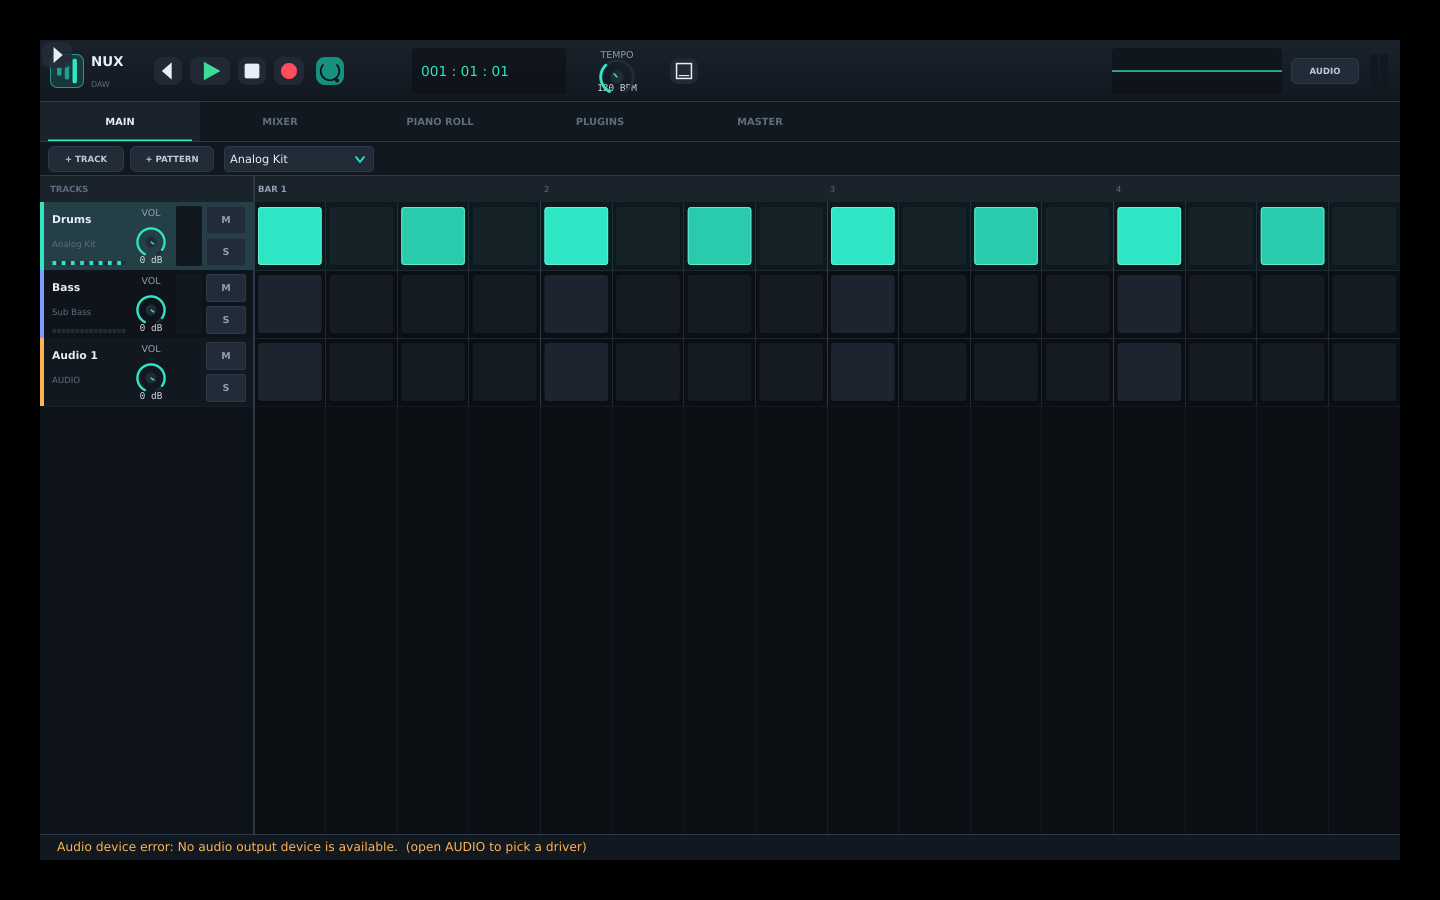
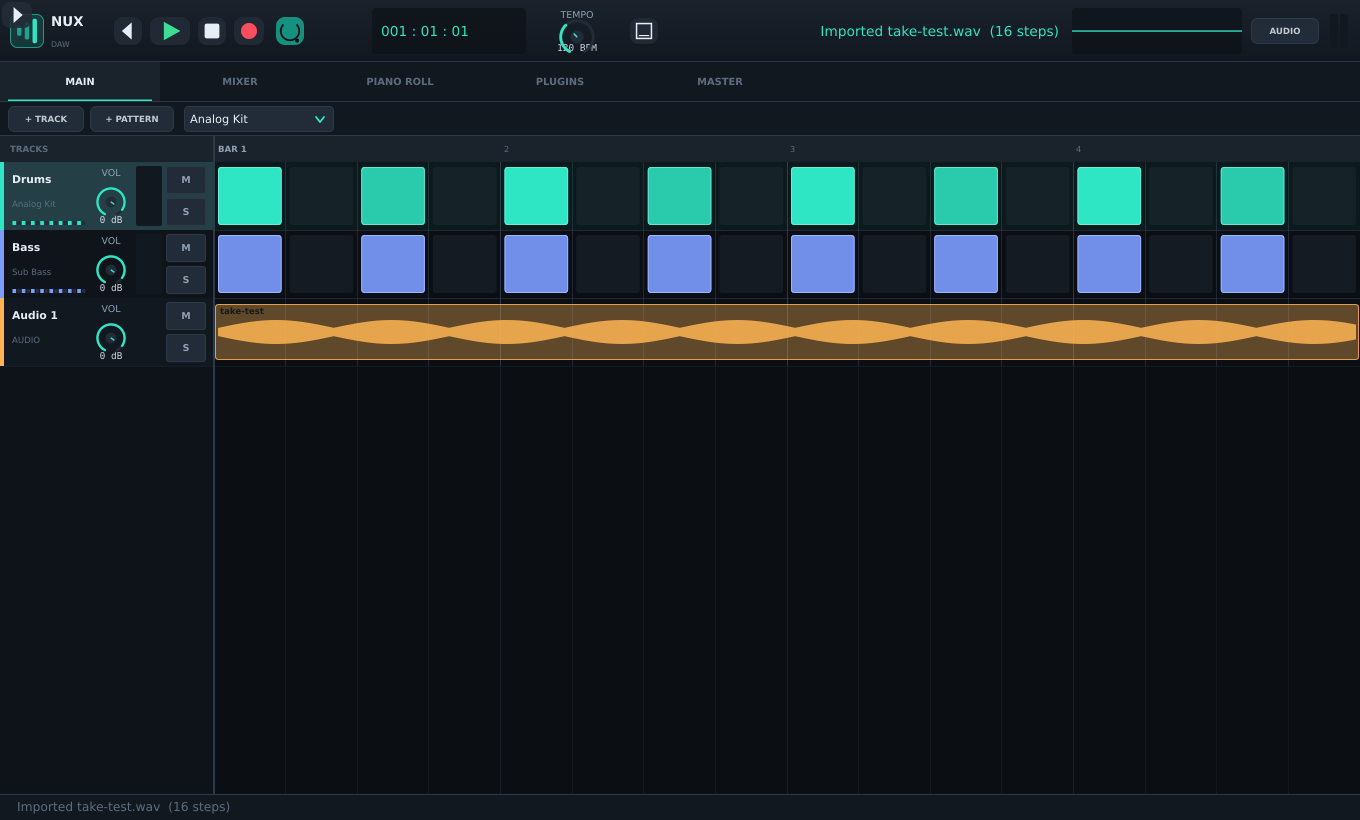
feat: real audio recording, hosted instrument selection, engine fixes
- InputRecorder: capture the device input through a lock-free ring buffer and
  write a 24-bit stereo WAV; the record button places the take as a clip
- hosted instrument selection from the track menu, with undo support
- fix: preview MIDI was cleared before it was played (piano roll and MIDI
  keyboard notes were silently dropped)
- fix: ChannelStrip::beginBlock was never called, so every track's fader, pan,
  mute, inserts, plugins and meters were bypassed
- fix: request 2 input channels so recording is possible at all
- fix: headless flags were ignored when they were the first argument
- tests: RecordingTests (7 groups) and a hosted instrument render test; 59 groups
- recover.sh: one-command workspace recovery

Changed region(s): [[0.0, 0.0, 1.0, 1.0], [0.4941, 0.0915, 0.5559, 0.1524]]

diff --git a/src/nux_ui/MainComponent.cpp b/src/nux_ui/MainComponent.cpp
@@ -573,6 +573,12 @@ juce::String MainComponent::runInstrumentSelfTest (const juce::File& pluginFolde
     if (! juce::isPositiveAndBelow (trackIndex, (int) state.tracks.size()))
         return "Track " + juce::String (trackIndex) + " does not exist";
 
+    // On a machine with no audio device the graph was never prepared, and an
+    // unprepared engine renders nothing. Prepare an offline graph so the test
+    // measures real DSP rather than an empty one.
+    if (! engine.isAudioAvailable())
+        engine.prepareForOfflineRendering (44100.0, 512, 2);
+
     pluginManager.addSearchPaths (juce::FileSearchPath (pluginFolder.getFullPathName()));
     pluginManager.scanNow (juce::FileSearchPath (pluginFolder.getFullPathName()), report);
 
@@ -868,6 +874,11 @@ juce::String MainComponent::runRecordingSelfTest (const juce::File& takeFile,
 
     if (! juce::isPositiveAndBelow (trackIndex, (int) state.tracks.size()))
         return "Track " + juce::String (trackIndex) + " does not exist";
+
+    // Without an audio device the clip store is never prepared and the take cannot be
+    // loaded, so prepare an offline graph first and let the test prove the real path.
+    if (! engine.isAudioAvailable())
+        engine.prepareForOfflineRendering (44100.0, 512, 2);
 
     report.add ("before: track = \"" + state.tracks[(size_t) trackIndex].name
                   + "\", clips = " + juce::String ((int) state.tracks[(size_t) trackIndex].audioClips.size())
